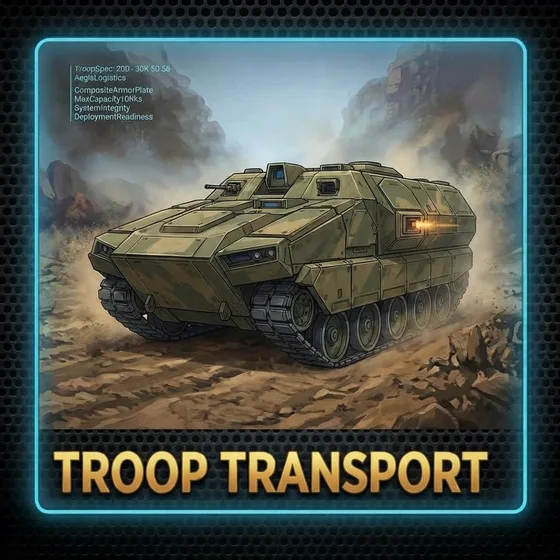
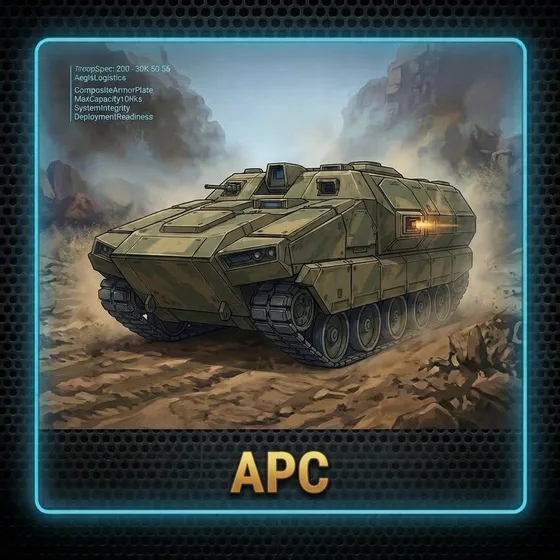
feat: rename the Troop Transport to the APC, with new card art (version 0.9.97)

Changed region(s): [[0.0911, 0.7893, 0.8804, 0.9107]]

diff --git a/src/engine/units.ts b/src/engine/units.ts
@@ -37,7 +37,7 @@ export const UNIT_STATS: Record<UnitType, UnitStats> = {
   army:       { ...base, name: 'Army',       domain: 'land', move: 1, hits: 1,  attack: 2, defense: 2, shot: 1, build: 6,  buildRepeat: 5 },
   armor:      { ...base, advanced: true, promotes: true, slots: 2, name: 'Armor', domain: 'land', move: 2, hits: 2,  attack: 2, defense: 2, shot: 1, build: 12, buildRepeat: 10 },
   /** Carries up to four Armies or Spies across land at Armor's pace; no attack, one hit, and its cargo dies with it. Loads and unloads on any land square. */
-  troopTransport: { ...base, advanced: true, slots: 2, name: 'Troop Transport', domain: 'land', move: 2, hits: 1, attack: 0, defense: 2, shot: 1, build: 12, buildRepeat: 10, carries: ['army', 'spy'], capacity: 4 },
+  troopTransport: { ...base, advanced: true, slots: 2, name: 'APC', domain: 'land', move: 2, hits: 1, attack: 0, defense: 2, shot: 1, build: 12, buildRepeat: 10, carries: ['army', 'spy'], capacity: 4 },
   fighter:    { ...base, name: 'Fighter',    domain: 'air',  move: 5, hits: 1,  attack: 2, defense: 2, shot: 1, build: 12, buildRepeat: 10, range: 20 },
   bomber:     { ...base, advanced: true, name: 'Bomber', domain: 'air', move: 4, hits: 1, attack: 2, defense: 2, shot: 2, build: 12, buildRepeat: 10, range: 24 },
   transport:  { ...base, promotes: true, name: 'Transport',  domain: 'sea',  move: 2, hits: 3,  attack: 1, defense: 1, shot: 1, build: 30, buildRepeat: 25, carries: ['army', 'armor', 'spy'], capacity: 6, capacityLossPerDamage: 2 },
@@ -115,14 +115,14 @@ export function canBecomeAirbase(type: UnitType): boolean {
  * `armorNoRiverCover` takes the river bonus away from a defending Armor.
  */
 export function doublesDefense(att: UnitType, def: UnitType, ground: Relief, armorNoRiverCover = false): boolean {
-  // A Troop Transport can hide in a forest (and nowhere else): its defence doubles there against everything but an Army.
+  // An APC can hide in a forest (and nowhere else): its defence doubles there against everything but an Army.
   if (def === 'troopTransport') return ground === 'forest' && att !== 'army';
   if (def !== 'army' && def !== 'armor') return false;
   if (ground === 'forest' || ground === 'mountain') return att !== 'army';
   return ground === 'river' && att === 'armor' && !(armorNoRiverCover && def === 'armor');
 }
 
-/** Armor and the Troop Transport share one set of terrain limits (see armorBlockedBy and armorSlowedBy). */
+/** Armor and the APC share one set of terrain limits (see armorBlockedBy and armorSlowedBy). */
 export const movesLikeArmor = (type: UnitType): boolean => type === 'armor' || type === 'troopTransport';
 
 /** Armor cannot enter mountains, and its move is cut to one in rough, river and forest squares. */
@@ -144,7 +144,7 @@ export function fightRatings(
   let defense = UNIT_STATS[def].defense;
   if (rules.advancedUnits && doublesDefense(att, def, defGround, rules.armorNoRiverCover)) defense *= 2;
   if (UNIT_STATS[def].domain === 'air' && UNIT_STATS[att].domain === 'sea' && att !== 'carrier' && rules.advancedUnits) attack = Math.min(attack, 1);
-  // Armor runs a Troop Transport down: half the defence it has against anything else.
+  // Armor runs an APC down: half the defence it has against anything else.
   if (def === 'troopTransport' && att === 'armor') defense /= 2;
   if (att === 'bomber' && def === 'fighter') attack = 1;
   if (def === 'bomber' && att === 'fighter') defense = 1;
@@ -158,7 +158,7 @@ export function attackBlockedReason(
   const a = UNIT_STATS[att];
   const d = UNIT_STATS[def];
   if (att === 'spy') return 'a spy cannot attack';
-  if (att === 'troopTransport') return 'a troop transport cannot attack';
+  if (att === 'troopTransport') return 'an APC cannot attack';
   if ((att === 'submarine' && d.domain === 'land') || (a.domain === 'land' && def === 'submarine')) {
     return 'submarines and land units cannot attack each other';
   }

diff --git a/src/ui/houseRules.ts b/src/ui/houseRules.ts
@@ -35,7 +35,7 @@ export const HOUSE_RULE_OPTIONS: { key: keyof HouseRules; label: string; hint: s
   {
     key: 'advancedUnits',
     label: 'Advanced units',
-    hint: 'Adds the Troop Transport (carries 4 armies or spies over land at the pace of Armor, loads and unloads on any land square, no attack, little protection) and Armor (twice as fast and tough as an army, takes two places on a transport; an undamaged Armor that takes a city leaves an Army in it), Bombers (range 24; they bomb an enemy city to wipe its production or destroy a unit in it, fight poorly against fighters, and cannot land on carriers) and Airbases (an Army or Armor on open land can turn itself into one for good; it holds 8 aircraft and cannot move or attack). and Spies (they slip unseen into enemy cities to read what they build and sabotage it; a spy in your own city uncovers enemy spies near it). Ships other than carriers attack aircraft at 1. The map also gets terrain: mountains (Armor cannot enter), forest, rough ground and rivers (Armor can only move one square there), and land units defend at double in forests and on mountains against everything but Armies, and in rivers against Armor.',
+    hint: 'Adds the APC, or Armored Personnel Carrier (carries 4 armies or spies over land at the pace of Armor, loads and unloads on any land square, no attack, little protection) and Armor (twice as fast and tough as an army, takes two places on a transport; an undamaged Armor that takes a city leaves an Army in it), Bombers (range 24; they bomb an enemy city to wipe its production or destroy a unit in it, fight poorly against fighters, and cannot land on carriers) and Airbases (an Army or Armor on open land can turn itself into one for good; it holds 8 aircraft and cannot move or attack). and Spies (they slip unseen into enemy cities to read what they build and sabotage it; a spy in your own city uncovers enemy spies near it). Ships other than carriers attack aircraft at 1. The map also gets terrain: mountains (Armor cannot enter), forest, rough ground and rivers (Armor can only move one square there), and land units defend at double in forests and on mountains against everything but Armies, and in rivers against Armor.',
   },
   {
     key: 'submarineStrike',

diff --git a/src/ui/whatsNew.ts b/src/ui/whatsNew.ts
@@ -16,6 +16,13 @@ export interface WhatsNewEntry {
 
 export const WHATS_NEW: WhatsNewEntry[] = [
   {
+    id: 'apc-rename',
+    version: '0.9.97',
+    date: '2026-11-18',
+    title: 'The Troop Transport is now the APC',
+    text: ['The new land carrier is renamed the APC (Armored Personnel Carrier), so it cannot be mistaken for the ship Transport. Nothing else about it changed, and saved games are unaffected.'],
+  },
+  {
     id: 'news-close-top',
     version: '0.9.96',
     date: '2026-11-18',
@@ -33,12 +40,12 @@ export const WHATS_NEW: WhatsNewEntry[] = [
     id: 'troop-transport',
     version: '0.9.94',
     date: '2026-11-18',
-    title: 'The Troop Transport',
+    title: 'The APC (Armored Personnel Carrier)',
     text: [
-      'A new unit with the Advanced units rule: a tracked carrier for four Armies or Spies (not Armor). It moves like Armor, with the same terrain limits, and loads and unloads on any land square: walk an Army onto it, or use Load. It can run routes over land, too.',
+      'A new unit with the Advanced units rule, the Armored Personnel Carrier (APC): a tracked carrier for four Armies or Spies (not Armor). It moves like Armor, with the same terrain limits, and loads and unloads on any land square: walk an Army onto it, or use Load. It can run routes over land, too.',
       'It cannot attack and is easy prey: Armor kills it almost at will, an Army has an even fight with it, and it can hide in a forest. If it is destroyed, everyone aboard dies with it.',
     ],
-    image: { src: 'troop-transport.png', alt: 'The Troop Transport card' },
+    image: { src: 'apc.png', alt: 'The APC card' },
   },
   {
     id: 'square-units',

diff --git a/src/engine/movement.ts b/src/engine/movement.ts
@@ -95,7 +95,7 @@ export function moveUnit(s: GameState, rng: RandomSource, u: Unit, dir: Dir, eve
     return null;
   }
   if (city && !areFriendly(s, city.owner, u.owner)) {
-    if (u.type === 'troopTransport') return 'a troop transport cannot attack';
+    if (u.type === 'troopTransport') return 'an APC cannot attack';
     if (st.domain === 'sea' && st.bombard && s.rules.cityStrength && city.owner !== null) return bombardCity(s, rng, u, city, events);
     if (st.domain === 'air' && u.type === 'bomber' && s.rules.advancedUnits) return bombCity(s, rng, u, city, events);
     if (st.domain !== 'land') return 'only land units can attack cities';
@@ -131,7 +131,7 @@ export function moveUnit(s: GameState, rng: RandomSource, u: Unit, dir: Dir, eve
 
   const terrain = terrainAt(s, to.x, to.y);
   if (st.domain === 'land' && terrain !== 'land') return 'land units cannot enter water';
-  if (movesLikeArmor(u.type) && s.rules.advancedUnits && armorBlockedBy(reliefAt(s, to.x, to.y))) return u.type === 'armor' ? 'Armor cannot enter mountains' : 'a troop transport cannot enter mountains';
+  if (movesLikeArmor(u.type) && s.rules.advancedUnits && armorBlockedBy(reliefAt(s, to.x, to.y))) return u.type === 'armor' ? 'Armor cannot enter mountains' : 'an APC cannot enter mountains';
   if (st.domain === 'sea' && terrain !== 'water') return 'ships can only enter water or friendly cities';
   if (occupants.length > 0 && !canJoinStack(s, u, to)) {
     const canPassOver = st.domain === 'air' && u.movesLeft > 1 && (u.fuel ?? 0) > 1;

diff --git a/src/audio/sounds.ts b/src/audio/sounds.ts
@@ -41,7 +41,7 @@ export const OVERRIDES: Partial<Record<SoundName, string>> = {
   'produce-army': '/sounds/produce-army.mp3',
   // Armor (Advanced units rule), the first 4 seconds of the original recording.
   'produce-armor': '/sounds/produce-armor.mp3',
-  // Troop Transport (Advanced units rule): the engine of a tracked SMET vehicle, 2 s of a US Army video (see docs/sounds.md).
+  // APC (Advanced units rule): the engine of a tracked SMET vehicle, 2 s of a US Army video (see docs/sounds.md).
   'produce-troopTransport': '/sounds/produce-troopTransport.mp3',
   // Spy (Advanced units rule): 4 s of a quiet surveillance-style ambience, 25 s to 29 s of the original recording (see docs/sounds.md).
   'produce-spy': '/sounds/produce-spy.mp3',
@@ -233,7 +233,7 @@ export const SYNTH: Record<SoundName, SynthFn> = {
     noise(c, o, t, 0.9, { gain: 0.14, from: 500, to: 200, q: 2 });
     [0.15, 0.4, 0.65].forEach((d) => tone(c, o, t + d, 420, 0.05, { type: 'square', gain: 0.06, endFreq: 300 }));
   },
-  // Troop Transport (fallback): a steadier, lighter engine rumble than Armor's.
+  // APC (fallback): a steadier, lighter engine rumble than Armor's.
   'produce-troopTransport': (c, o, t) => {
     tone(c, o, t, 70, 0.9, { type: 'sawtooth', gain: 0.14, endFreq: 85 });
     noise(c, o, t, 0.9, { gain: 0.12, from: 600, to: 250, q: 1.5 });

diff --git a/src/ui/ProductionReport.tsx b/src/ui/ProductionReport.tsx
@@ -11,7 +11,7 @@ import { UnitCard } from './UnitCard';
 export const UNIT_BLURB: Record<UnitType, string> = {
   army: 'Foot soldiers: one of two units that can take a city, but slow and helpless at sea.',
   armor: 'Heavy tanks: twice as fast and twice as tough as an army, but they fill two places on a transport.',
-  troopTransport: 'A tracked carrier for four armies or spies: armor\'s pace and terrain limits, loads and unloads on any land square, but no attack and weak defence; keep it away from enemy armor.',
+  troopTransport: 'Armored Personnel Carrier: a tracked carrier for four armies or spies; armor\'s pace and terrain limits, loads and unloads on any land square, but no attack and weak defence; keep it away from enemy armor.',
   fighter: 'A fast scout and striker; it must land in a city or on a carrier before its fuel runs out.',
   bomber: 'A slower aircraft with a longer range; it sinks ships and bombs cities, but fights poorly against fighters and cannot land on a carrier.',
   spy: 'Slips into enemy cities unseen to read what they build and wreck it; no defence, so keep it hidden. A seasoned spy can even stir up a revolt.',

diff --git a/src/engine/ferry.ts b/src/engine/ferry.ts
@@ -111,7 +111,7 @@ function validateFerry(s: GameState, u: Unit, pickup: number, drop: Pos): string
   if (s.fog[u.owner].explored[drop.y * s.width + drop.x] !== 1) return 'the drop square is not explored';
   if (drop.x === city.x && drop.y === city.y) return 'the drop square must differ from the pickup city';
   const dropCity = cityAt(s, drop.x, drop.y);
-  const land = UNIT_STATS[u.type].domain === 'land'; // a Troop Transport runs routes over land
+  const land = UNIT_STATS[u.type].domain === 'land'; // an APC runs routes over land
   if (terrainAt(s, drop.x, drop.y) !== (land ? 'land' : 'water') && !(dropCity && areFriendly(s, dropCity.owner, u.owner))) return land ? 'the drop square must be a land tile (or a friendly city)' : 'the drop square must be a sea tile (or a friendly city)';
   // Own units standing about (even the carrier itself on the drop square) do not count: the route is about the sea or land between.
   if (findPath({ ...pathMapFromState(s, u.owner), own: new Map() }, { type: u.type, x: city.x, y: city.y }, drop) === null) return 'no known path between the pickup city and the drop square';

diff --git a/src/engine/cargo.ts b/src/engine/cargo.ts
@@ -17,7 +17,7 @@ export function inFriendlyCity(s: GameState, t: Unit): boolean {
 /** Boards the given own armies (or fighters) onto a carrier standing in its owner's city. */
 export function loadUnits(s: GameState, t: Unit, unitIds: number[]): string | null {
   if (UNIT_STATS[t.type].carries.length === 0) return 'this unit cannot carry cargo';
-  // A Troop Transport loads on any land square; ships and carriers only in a city of theirs.
+  // An APC (Armored Personnel Carrier) loads on any land square; ships and carriers only in a city of theirs.
   if (!inOwnCity(s, t) && t.type !== 'troopTransport') return 'can only load in one of your cities';
   if (unitIds.length === 0 || new Set(unitIds).size !== unitIds.length) return 'nothing to load';
   const boarding: Unit[] = [];

diff --git a/src/engine/rules.ts b/src/engine/rules.ts
@@ -53,5 +53,5 @@ units rule on, older games replay differently; older saves load from their saved
 // 28: an Army or Armor on Explore also heads for a known neutral city when it is nearer than the unexplored edge.
 // 29: stacking rule: a unit may join a teammate's stack (one limit for the whole square).
 // 30: a ferry may drop at a teammate's city and unload there; allied units inside a city no longer block it in the path map.
-// 31: the Troop Transport (Advanced units): a land carrier for four Armies or Spies.
+// 31: the APC, Armored Personnel Carrier (Advanced units): a land carrier for four Armies or Spies.
 export const RULES_VERSION = 31;

diff --git a/src/ui/version.ts b/src/ui/version.ts
@@ -3,7 +3,7 @@ declare const __BUILD_COMMIT__: string;
 declare const __BUILD_DATE__: string;
 
 /** The game's version, three parts until 1.0 (0.9.1, 0.9.2, ...). Bump the last number when a feature ships (see docs/versions.md). */
-export const VERSION = '0.9.96';
+export const VERSION = '0.9.97';
 
 /** Shown on the title screen, e.g. "Version 0.9.5 Â· build aa5f9f4 Â· 2026-10-28". */
 export const VERSION_LABEL = `Version ${VERSION} Â· build ${__BUILD_COMMIT__} Â· ${__BUILD_DATE__}`;

diff --git a/tests/engine/troopTransport.test.ts b/tests/engine/troopTransport.test.ts
@@ -15,7 +15,7 @@ function game(advanced = true): GameState {
 }
 const east = 2 as const;
 
-describe('troop transport', () => {
+describe('APC (troopTransport)', () => {
   it('is built only with the Advanced units rule', () => {
     expect(buildableTypes({ advancedUnits: true })).toContain('troopTransport');
     expect(buildableTypes({ advancedUnits: false })).not.toContain('troopTransport');

diff --git a/docs/versions.md b/docs/versions.md
@@ -103,9 +103,10 @@ The title screen shows `Version X.Y.Z · build <hash> · <date>` (`src/ui/versio
 | 0.9.88 | 2026-11-17 | City routes list what the units do on arrival: "Army, Armor → Tangier (Explore)", "(Sentry)" or "(Wait for orders)", in the route form and on the city screen. |
 | 0.9.89 | 2026-11-17 | Stackable units: up to 4 land units may now share a square (ships stay at 3). When a Bomber or a ship beats a stack's defender it also hits the rest of the stack: each other unit has an even chance of taking one hit (destroyed if that was its last), reported as "hurt in the blast on its stack". Older saves load from their saved position (rules version 27). |
 | 0.9.90 | 2026-11-17 | Explore: an Army or Armor on Explore also heads for a known neutral city when it is nearer than the unexplored edge, and stops beside it ("city found") so the player decides. A city it already stands beside is skipped, so telling it to carry on does not turn it back. Ships, aircraft and spies explore as before. Older saves load from their saved position (rules version 28). |
+| 0.9.97 | 2026-11-18 | The Troop Transport is renamed the APC (Armored Personnel Carrier) everywhere the player sees it, with a new card reading APC: the name could be confused with the ship Transport. The internal unit id stays `troopTransport`, so saves and the engine are unchanged. |
 | 0.9.96 | 2026-11-18 | What's New has a Close button at the top that stays in view while the list scrolls (the one at the bottom is still there). |
 | 0.9.95 | 2026-11-18 | Computer players (Hard, Advanced units) now site Airbases far out: at least 6 squares from their own cities and 5 from an enemy city, 8 from another base, and only where the base brings at least one enemy city into Bomber range that their cities and bases do not already cover; the soldier will walk up to 16 squares to get there. Before, it built them 2 to 6 squares from its own city, where they added nothing and only drew attacks. AI behaviour only, no rules change. |
-| 0.9.94 | 2026-11-18 | New unit, the Troop Transport (Advanced units): moves like Armor (same terrain limits: no mountains, one square in rough, river and forest), carries 4 Armies or Spies (no Armor), loads and unloads on any land square, takes 2 places, builds in 12 turns (10 after the first). No attack, 1 hit, defence 2 (an even fight against an Army): halved against Armor, doubled in a forest (except against an Army). Its cargo dies with it. Ferry routes can run over land for it. Its build sound is the engine of a tracked SMET vehicle (public-domain U.S. Army video, 2 s). Older saves load from their saved position (rules version 31). |
+| 0.9.94 | 2026-11-18 | New unit, the Troop Transport (Advanced units; renamed the APC in 0.9.97): moves like Armor (same terrain limits: no mountains, one square in rough, river and forest), carries 4 Armies or Spies (no Armor), loads and unloads on any land square, takes 2 places, builds in 12 turns (10 after the first). No attack, 1 hit, defence 2 (an even fight against an Army): halved against Armor, doubled in a forest (except against an Army). Its cargo dies with it. Ferry routes can run over land for it. Its build sound is the engine of a tracked SMET vehicle (public-domain U.S. Army video, 2 s). Older saves load from their saved position (rules version 31). |
 | 0.9.93 | 2026-11-18 | The side panel lists every unit on the selected unit's square (yours, with their orders, and teammates' units in the open) when there is more than one; click one of yours to select it. No rules change. |
 | 0.9.92 | 2026-11-17 | Clicking a square that holds your own stack (or a teammate's) with a unit selected now orders it to go there when the stack has room, instead of only selecting. Allied units inside a city no longer make it unreachable. A ferry route may drop at a teammate's city and unloads there. Older saves load from their saved position (rules version 30). |
 | 0.9.91 | 2026-11-17 | Stackable units: you may now join a teammate's stack (and they yours). One limit covers the whole square (4 land, 3 sea, no aircraft); each player still moves only their own units. An enemy attack on a mixed stack fights the best defender of either owner, and splash damage can hit any of them. Paths and ferry drops count allied units towards the limit. With the rule off an ally's square stays closed. Older saves load from their saved position (rules version 29). |
